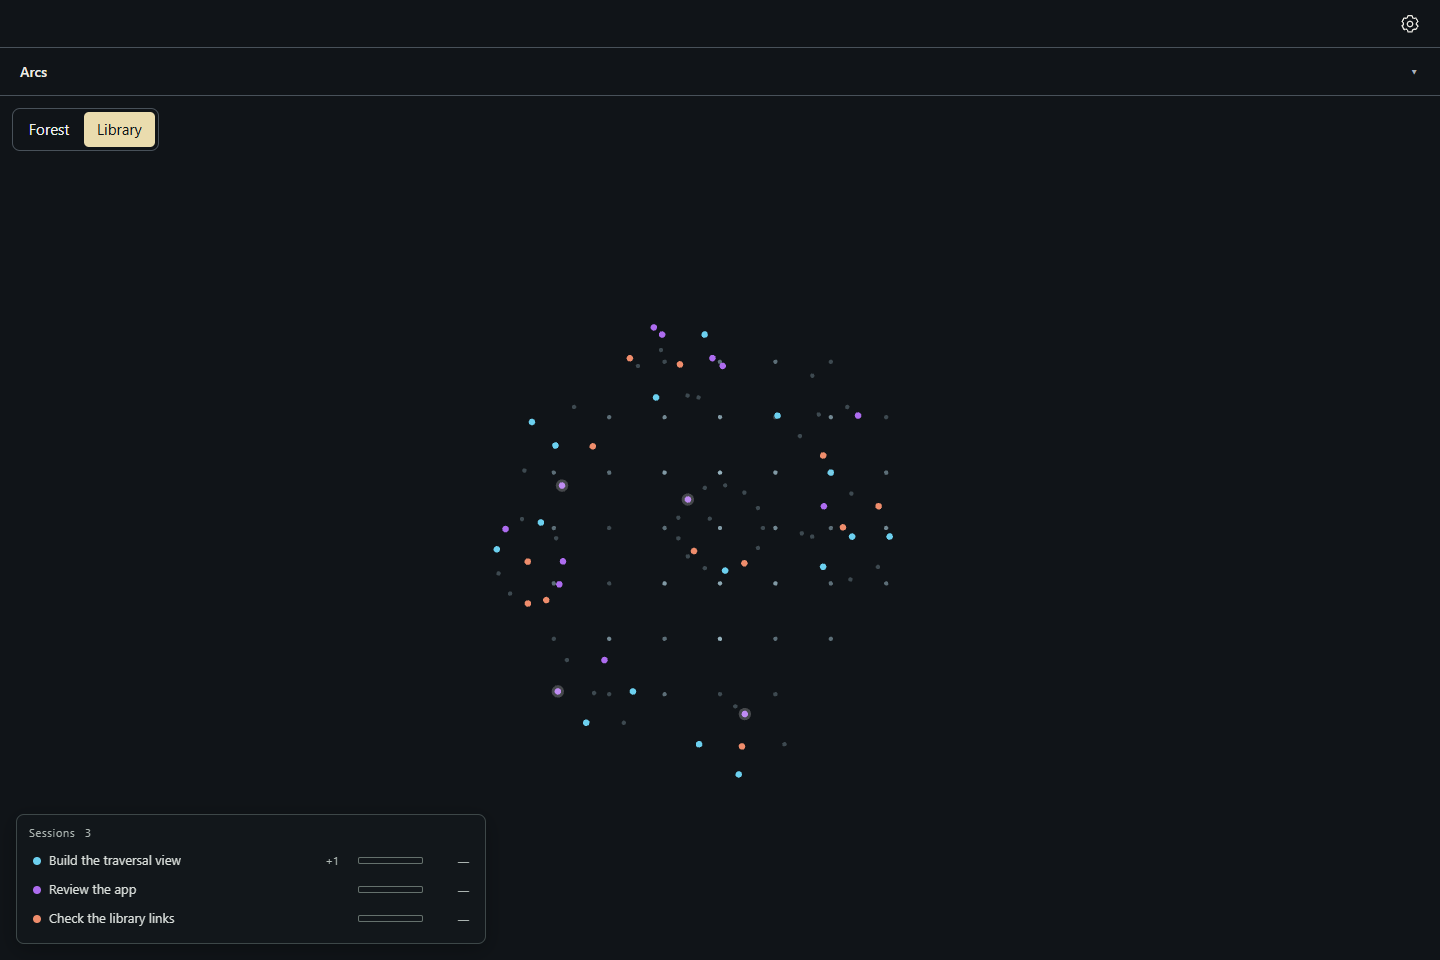
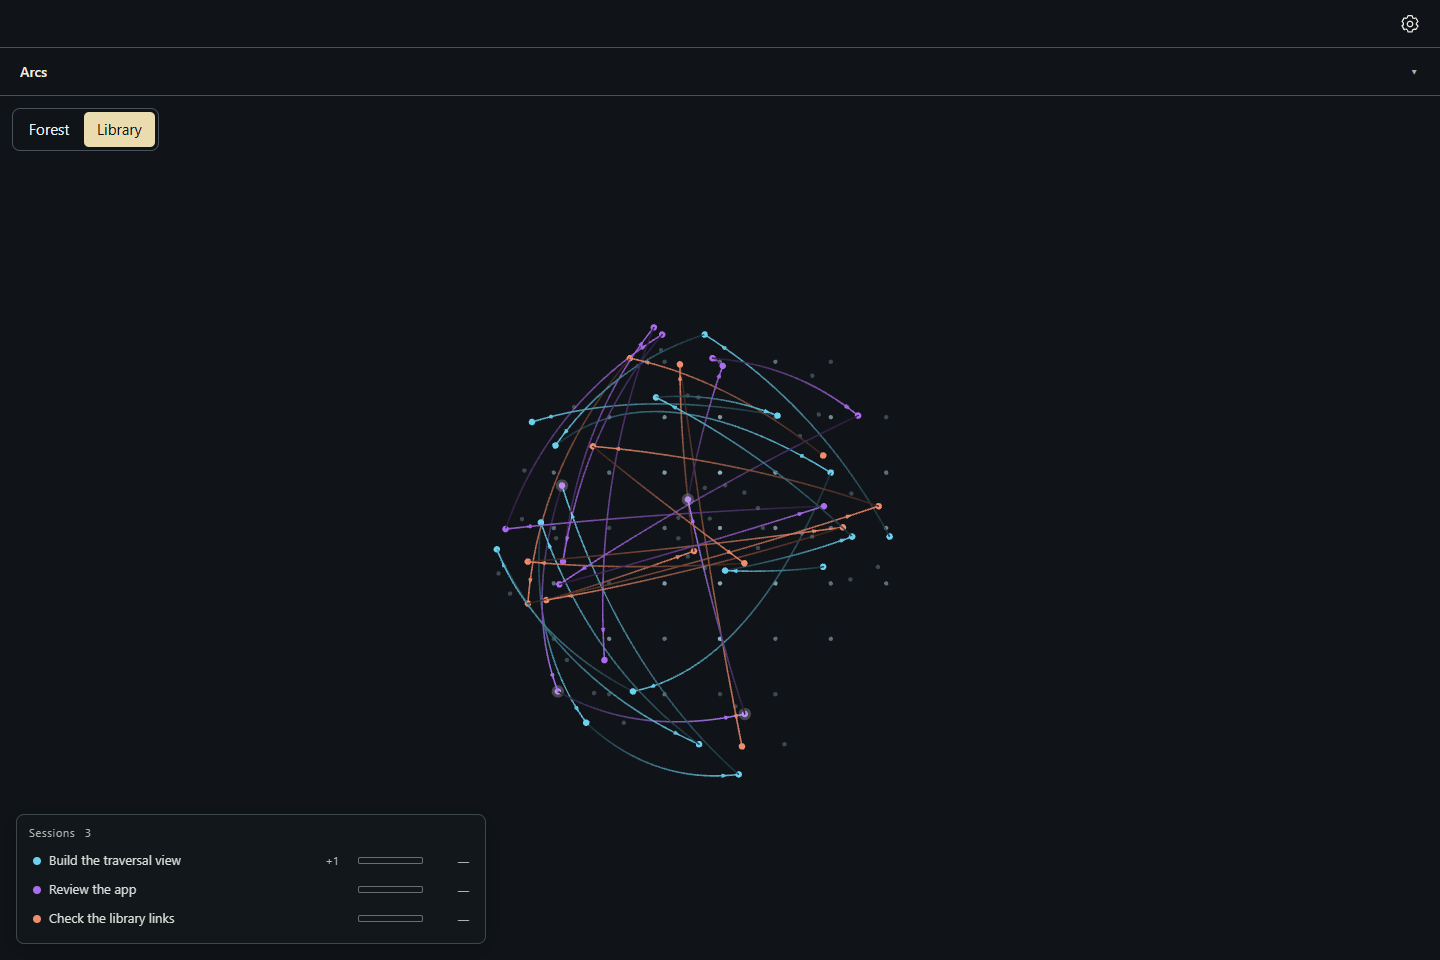
green(knowledge-core): each session's reading path as curved, directed lines in its colour (ADR-0740)

Changed region(s): [[0.3438, 0.3438, 0.5938, 0.7812], [0.5, 0.7188, 0.5312, 0.75], [0.5, 0.6562, 0.5312, 0.6875]]

diff --git a/packages/knowledge-core/src/view/globe-points.tsx b/packages/knowledge-core/src/view/globe-points.tsx
@@ -1,16 +1,26 @@
 import type { GlobePoint } from "../shelves/positions.js";
 import type { RecordEnvelope } from "@storytree/library";
-import { noteTitle, type Lighting } from "../look-inside/look-inside.js";
+import { Line } from "@react-three/drei";
+import { Color, Quaternion, Vector3 } from "three";
+import { noteTitle, type Lighting, type Trail } from "../look-inside/look-inside.js";
 
 const noRaycast = () => {};
 
 /** Mesh raycasts stay disabled: the globe picks these small dots in screen space. */
-export function GlobePoints({ points, radius, notes, lit = new Map() }: {
+export function GlobePoints({ points, radius, notes, lit = new Map(), trails = [] }: {
   points: readonly GlobePoint[]; radius: number; notes: ReadonlyMap<string, RecordEnvelope>;
   /** Notes a running session read, in its colour; a shared one gets a halo (ADR-0738). */
   lit?: ReadonlyMap<string, Lighting>;
+  /** Each session's reading path, one curve per step, pointing to the later read (ADR-0740). */
+  trails?: readonly Trail[];
 }) {
+  const at = new Map(points.map(point => [point.id, point.at]));
   return <group name="knowledge-points">
+    {trails.map(trail => {
+      const from = at.get(trail.from), to = at.get(trail.to);
+      return from === undefined || to === undefined ? null
+        : <TrailCurve key={`${trail.colour} ${trail.from} ${trail.to}`} trail={trail} from={from} to={to} radius={radius} />;
+    })}
     {points.map(point => <mesh key={point.id} name={`knowledge-point:${point.id}`}
       position={[point.at.x, point.at.y, point.at.z]} raycast={noRaycast}
       userData={{ id: point.id, title: notes.has(point.id) ? noteTitle(notes.get(point.id)!) : point.id, depth: point.depth ?? null, home: point.home ?? null,
@@ -22,5 +32,34 @@ export function GlobePoints({ points, radius, notes, lit = new Map() }: {
         <meshBasicMaterial color="#ffffff" transparent opacity={0.22} depthWrite={false} />
       </mesh>}
     </mesh>)}
+  </group>;
+}
+
+const STEPS = 24;
+const UP = new Vector3(0, 1, 0);
+
+/**
+ * One step of a reading path: a quadratic Bezier bowed away from the globe's centre, so it never
+ * lies along a stored link, fading from dim at the earlier read to full colour at the later one,
+ * with an arrowhead just short of the later read (ADR-0740 D1, D3).
+ */
+function TrailCurve({ trail, from, to, radius }: { trail: Trail; from: { x: number; y: number; z: number }; to: { x: number; y: number; z: number }; radius: number }) {
+  const a = new Vector3(from.x, from.y, from.z), b = new Vector3(to.x, to.y, to.z);
+  const middle = a.clone().add(b).multiplyScalar(0.5);
+  const outward = middle.lengthSq() === 0 ? UP.clone() : middle.clone().normalize();
+  const control = middle.add(outward.multiplyScalar(a.distanceTo(b) * 0.3));
+  const at = (t: number) => a.clone().multiplyScalar((1 - t) ** 2).add(control.clone().multiplyScalar(2 * t * (1 - t))).add(b.clone().multiplyScalar(t * t));
+  const points = Array.from({ length: STEPS + 1 }, (_, index) => at(index / STEPS));
+  const full = new Color(trail.colour);
+  const dim = full.clone().multiplyScalar(0.25);
+  const colours = points.map((_, index) => dim.clone().lerp(full, index / STEPS).toArray() as [number, number, number]);
+  const tip = at(0.92), tail = at(0.86);
+  const turn = new Quaternion().setFromUnitVectors(UP, tip.clone().sub(tail).normalize());
+  return <group name={`knowledge-trail:${trail.from}>${trail.to}`} userData={{ from: trail.from, to: trail.to, colour: trail.colour }}>
+    <Line points={points} vertexColors={colours} lineWidth={1.6} transparent opacity={0.85} depthWrite={false} raycast={noRaycast} />
+    <mesh position={tip} quaternion={turn} raycast={noRaycast}>
+      <coneGeometry args={[radius * 0.006, radius * 0.018, 8]} />
+      <meshBasicMaterial color={full} transparent opacity={0.9} depthWrite={false} />
+    </mesh>
   </group>;
 }

diff --git a/packages/knowledge-core/src/look-inside/look-inside.ts b/packages/knowledge-core/src/look-inside/look-inside.ts
@@ -284,6 +284,41 @@ export function lighting(reads: ReadRecord, roster: readonly RosterEntry[], sess
   return new Map([...first].map(([note, { colour }]) => [note, { colour, shared: false }]));
 }
 
+/** One step of a session's reading path: from a full read to the same agent's next, never a followed link (ADR-0740). */
+export interface Trail {
+  from: string;
+  to: string;
+  colour: string;
+  seq: number;
+}
+
+/**
+ * The reading paths to draw (ADR-0740), in recorded order: every listed session's in its colour
+ * with none selected, or the selected session's in its agents' colours. Each is the replay's jumps
+ * (a known agent's full reads, one to the next); a peek or an unknown agent draws none, and a
+ * repeated step of the same session draws once.
+ */
+export function trails(reads: ReadRecord, roster: readonly RosterEntry[], session: string | undefined,
+  present: ReadonlySet<string>): Trail[] {
+  const drawn = new Map<string, Trail>();
+  const take = (member: string, colourOf: (agent: string) => string, key: string) => {
+    for (const { agent, jumps } of reads.replay(member, present).agents) {
+      for (const { from, to, seq } of jumps) {
+        if (from === undefined || from === to || drawn.has(`${key} ${from} ${to}`)) continue;
+        drawn.set(`${key} ${from} ${to}`, { from, to, colour: colourOf(agent), seq });
+      }
+    }
+  };
+  if (session === undefined) {
+    for (const { session: listed, colour, members } of roster) for (const member of members) take(member, () => colour, listed);
+  } else {
+    const { agents } = reads.replay(session, present);
+    const colours = new Map(legend(agents, roster.find(({ members }) => members.includes(session))?.colour).map(({ agent, colour }) => [agent, colour]));
+    take(session, (agent) => colours.get(agent)!, session);
+  }
+  return [...drawn.values()].sort((a, b) => a.seq - b.seq);
+}
+
 interface LiveNote {
   colour: string;
   seq: number;

diff --git a/packages/knowledge-core/src/view/surface.tsx b/packages/knowledge-core/src/view/surface.tsx
@@ -11,7 +11,7 @@ import type { Line } from "@storytree/agent-link";
 import type { Change } from "@storytree/library";
 
 import { knowledge } from "../ghosts/ghosts.js";
-import { coreScene, legend, lighting, noteCard, noteTitle, pinnedLinks, replayFrame, type CoreInput, type Point, type RosterEntry, type SizeBy } from "../look-inside/look-inside.js";
+import { coreScene, legend, lighting, noteCard, trails as readingPaths, noteTitle, pinnedLinks, replayFrame, type CoreInput, type Point, type RosterEntry, type SizeBy } from "../look-inside/look-inside.js";
 import { ReadRecord, type AgentReplay } from "../reads/reads.js";
 import { underShelves } from "../shelves/shelves.js";
 import { globePoints } from "../shelves/positions.js";
@@ -227,5 +227,7 @@ export function KnowledgeGlobePoints({ core, spots, radius }: {
   const lit = useMemo(() => lighting(store.reads, state.roster, state.session, new Set(known.notes.keys())),
     // The record is kept in place, so its version stands in for its reads.
     [store.reads, state.version, state.roster, state.session, known]);
-  return <GlobePoints points={points} radius={radius} notes={known.notes} lit={lit} />;
+  const paths = useMemo(() => readingPaths(store.reads, state.roster, state.session, new Set(known.notes.keys())),
+    [store.reads, state.version, state.roster, state.session, known]);
+  return <GlobePoints points={points} radius={radius} notes={known.notes} lit={lit} trails={paths} />;
 }

diff --git a/packages/knowledge-core/src/index.ts b/packages/knowledge-core/src/index.ts
@@ -7,8 +7,8 @@ export { EMPTY_SHELF, LOOP_LABEL, underShelves } from "./shelves/shelves.js";
 export type { Core, Loop, Placement, Shelf } from "./shelves/shelves.js";
 export { NO_RECORDED_READS, ReadRecord } from "./reads/reads.js";
 export type { AgentReplay, Jump, Lit, Replay } from "./reads/reads.js";
-export { coreScene, legend, noteCard, noteTitle, pinnedLinks, replayFrame, SIZE_LABELS } from "./look-inside/look-inside.js";
-export type { Card, CoreInput, CoreScene, DrawnNote, Entrance, LegendEntry, Link, Point, ReplayFrame, RosterEntry, SizeBy } from "./look-inside/look-inside.js";
+export { coreScene, legend, lighting, trails, noteCard, noteTitle, pinnedLinks, replayFrame, SIZE_LABELS } from "./look-inside/look-inside.js";
+export type { Card, CoreInput, CoreScene, DrawnNote, Entrance, LegendEntry, Link, Point, ReplayFrame, RosterEntry, SizeBy, Trail, Lighting } from "./look-inside/look-inside.js";
 export { lookInside, returnToGlobe, shown, toForest } from "./look-inside/view-state.js";
 export type { CoreViewState, Shown } from "./look-inside/view-state.js";
 export { globePoints, LOOSE_BALL_RADIUS, LOOSE_MIN_SEPARATION } from "./shelves/positions.js";

diff --git a/packages/knowledge-core/evidence/all-sessions/README.md b/packages/knowledge-core/evidence/all-sessions/README.md
@@ -2,6 +2,8 @@
 
 Increment `increment_e7d28849c36b`. With no session selected, the globe's knowledge dots light in the colour of each running session in the sessions list (the colour its row and wisps wear), since the session started, with no fade. A subagent's reads wear its parent's colour. A note two listed sessions read gets a white halo, and its colour is the latest reader's. Clicking a row drills into that session alone: its orchestrator wears the session's colour and each subagent a shade of that hue. Clicking the row again goes back to every session.
 
+Each session's reading path draws too (ADR-0740): a curve from each full read to the same agent's next, in the session's colour (or the agent's shade once drilled in), bowed away from the globe's centre, fading from dim to full and ending in an arrowhead at the later read. A curve means "read next", never a followed link.
+
 - [No session selected: three sessions, four shared notes](all-sessions.png)
 - [One session selected](one-session.png)
 - [Drilled into a session with an explorer subagent: a darker shade of the same hue](drill-in-shades.png)
